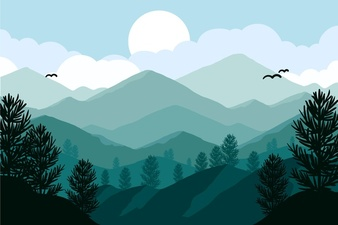
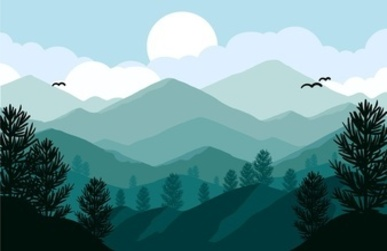
resized images

diff --git a/lib/Screens/discover_screen.dart b/lib/Screens/discover_screen.dart
@@ -55,7 +55,7 @@ class DiscoverScreen extends StatelessWidget {
               title: 'Northern Mountain',
             ),
             CardSample(
-              image: Image.asset('assets/images/national-park-winter.png'),
+              image: Image.asset('assets/images/national-park-winter.jpg'),
               title: 'Northern Mountain',
             ),
             CardSample(
